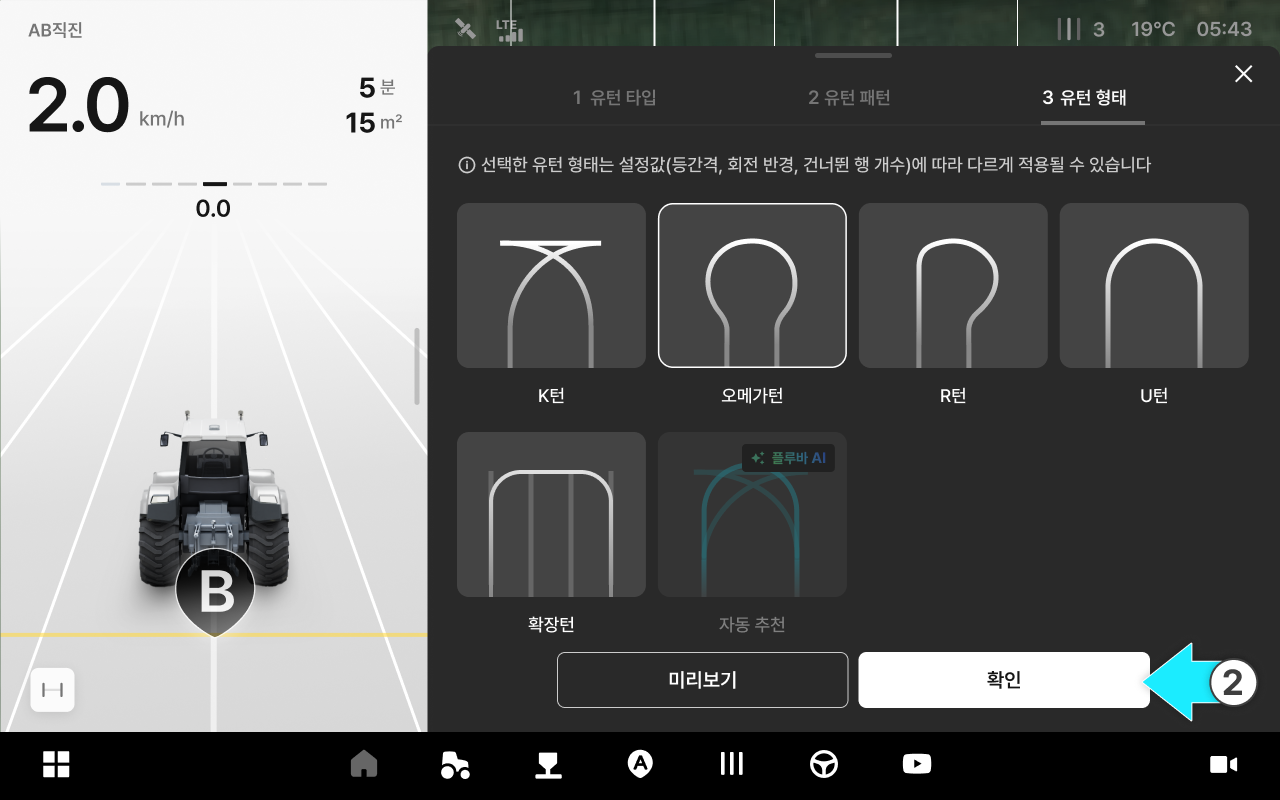
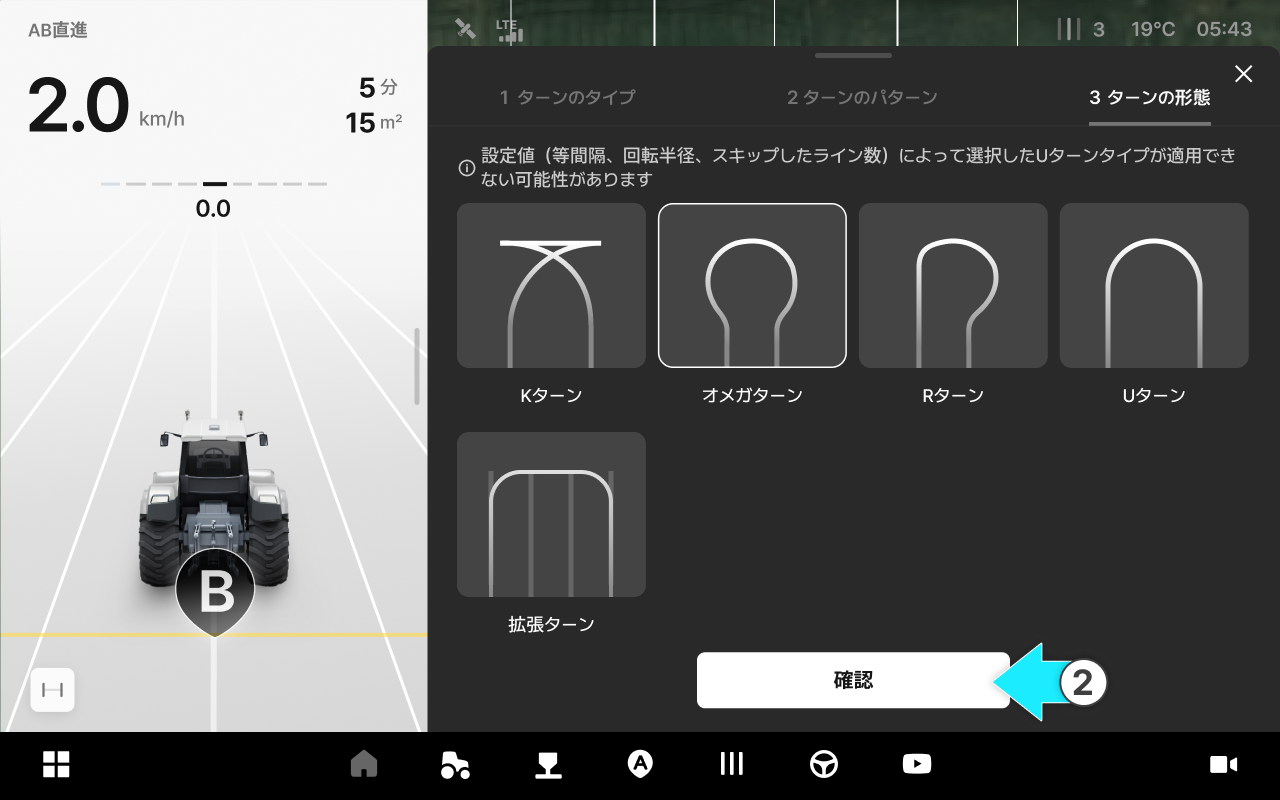
GITBOOK-11: No subject

diff --git a/ion-servicemanual-jp/usage/uturn-mode/uturn-mode-setting.md b/ion-servicemanual-jp/usage/uturn-mode/uturn-mode-setting.md
@@ -172,13 +172,13 @@ AB直進モードでのみ使用でき、それ以外のモードでは無効に
 {% step %}
 使用するターンの形態を選択します。最小回転半径などのターン設定値に基づいて可能なターン形態のみが有効になります。
 
-<figure><img src="../../.gitbook/assets/uturn-shape-explanation-1 (1).png" alt=""><figcaption></figcaption></figure>
+<figure><img src="../../.gitbook/assets/uturn-shape-explanation-2.png" alt=""><figcaption></figcaption></figure>
 {% endstep %}
 
 {% step %}
 \[確認]をクリックします。
 
-<figure><img src="../../.gitbook/assets/uturn-shape-explanation-2 (1).png" alt=""><figcaption></figcaption></figure>
+<figure><img src="../../.gitbook/assets/uturn-shape-explanation-2.png" alt=""><figcaption></figcaption></figure>
 {% endstep %}
 
 {% step %}
@@ -190,7 +190,7 @@ AB直進モードでのみ使用でき、それ以外のモードでは無効に
 
 #### Uターン形態画面のご案内
 
-<figure><img src="../../.gitbook/assets/uturn-shape-explanation-screen (1).png" alt=""><figcaption></figcaption></figure>
+<figure><img src="../../.gitbook/assets/uturn-shape-explanation-screen.png" alt=""><figcaption></figcaption></figure>
 
 ![](<../../.gitbook/assets/icon-square-1-1 (2).svg>) **Kターン**
 
